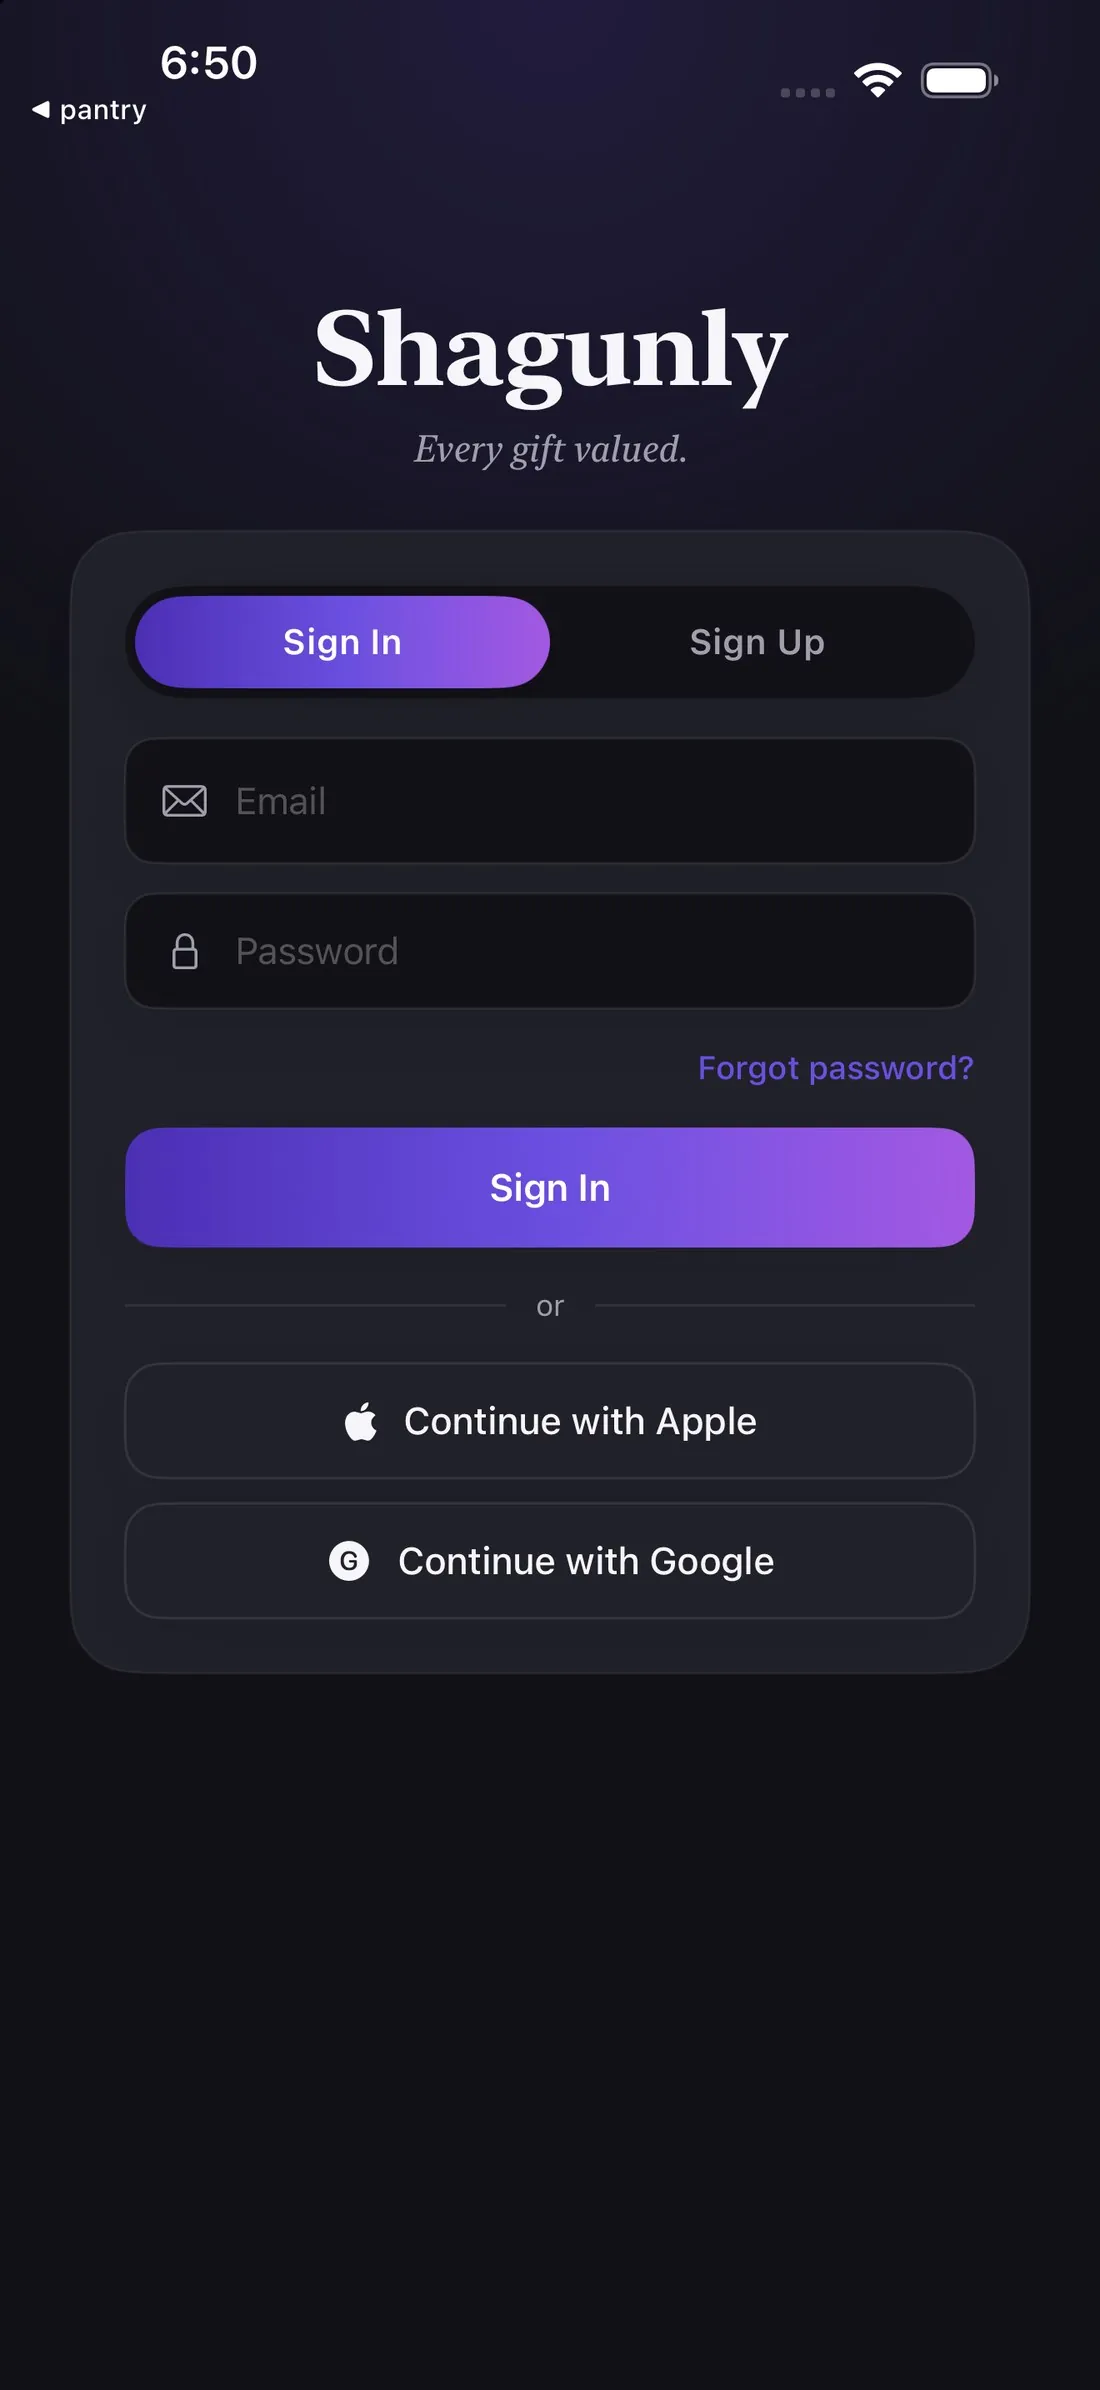
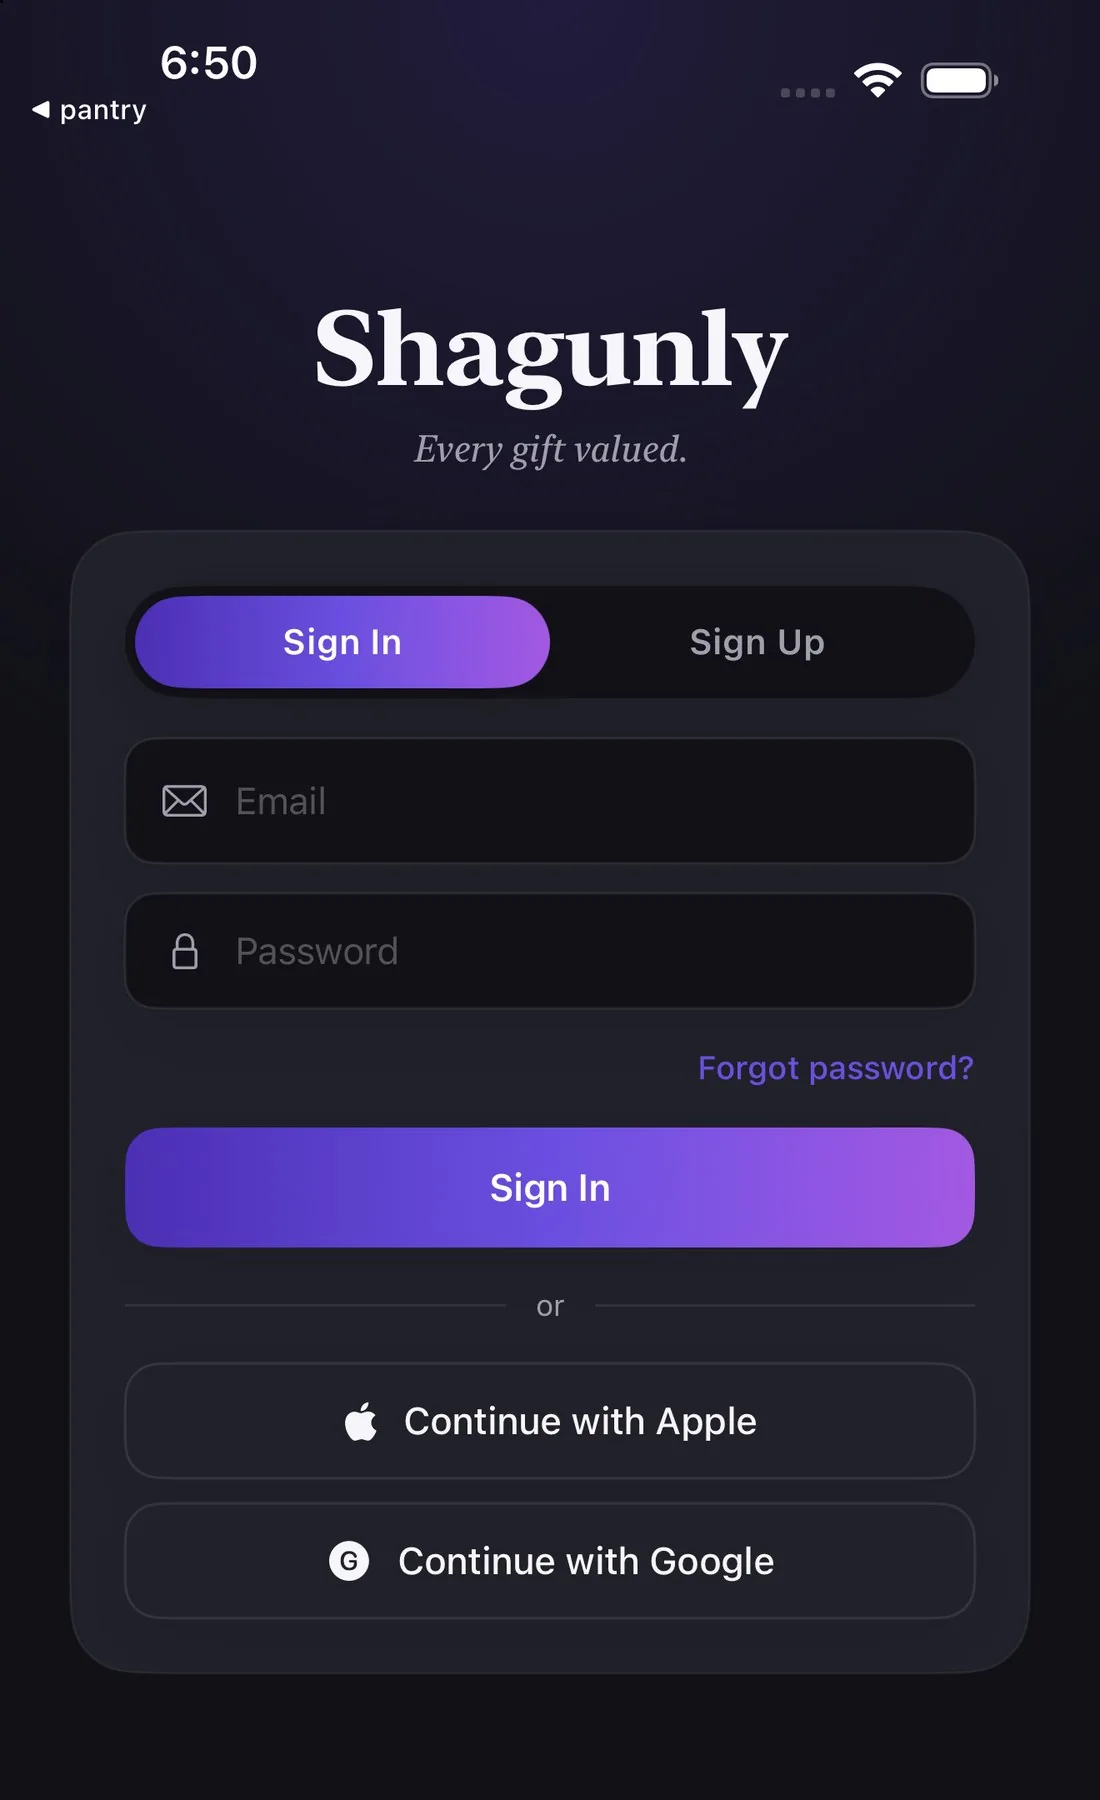
Shagunly: fix the Building It layout
Two problems. The auth screenshot was 30% empty background — content ends
at row 1673 of 2390 — so at 340px wide it rendered 739px tall with a void
in the lower third. And it sat full-width on its own, leaving the right
half of the section blank while the icon strip was stranded below it,
centred against nothing.

Cropped the screenshot to 1100x1800 from the uncropped jpg kept during the
WebP pass, and paired the auth screen with the app icons in a two-column
row, vertically centred, since they illustrate the same point. Stacks
below 760px.

diff --git a/shagunly.html b/shagunly.html
@@ -527,11 +527,12 @@
             </ul>
           </div>
         </div>
-        <figure class="fig" data-reveal style="max-width:340px;">
-          <img src="img/shagunly/screens/phone-auth.webp" width="1100" height="2390" alt="Shagunly sign-in screen — email/password with Apple and Google sign-in" loading="lazy">
+        <div class="build-artifacts" data-reveal>
+        <figure class="fig" style="margin:0;">
+          <img src="img/shagunly/screens/phone-auth.webp" width="1100" height="1800" alt="Shagunly sign-in screen — email/password with Apple and Google sign-in" loading="lazy">
           <figcaption>Shipped auth — email/password, Apple &amp; Google sign-in</figcaption>
         </figure>
-        <div class="icon-strip" data-reveal>
+        <div class="icon-strip">
           <figure>
             <img src="img/shagunly/icon-default.webp" width="256" height="256" alt="Shagunly app icon — default appearance" loading="lazy">
             <figcaption>Default</figcaption>
@@ -544,6 +545,7 @@
             <img src="img/shagunly/icon-tinted.webp" width="256" height="256" alt="Shagunly app icon — tinted appearance (iOS 18 icon tinting)" loading="lazy">
             <figcaption>Tinted</figcaption>
           </figure>
+        </div>
         </div>
       </div>
     </section>

diff --git a/css/shagunly.css b/css/shagunly.css
@@ -177,7 +177,27 @@
 .mockup-caption span.active { display: inline; }
 
 /* ---------- App icon strip ---------- */
+/* Shipped artefacts: the auth screen and the icon set are two halves of the
+   same point, so they sit side by side. Previously the tall screenshot ran
+   full-width on its own, leaving the right half of the section empty, with
+   the icon strip stranded and centre-aligned below it. */
+.build-artifacts {
+  display: grid;
+  grid-template-columns: minmax(0, 300px) 1fr;
+  gap: var(--space-4);
+  align-items: center;
+  margin-top: var(--space-3);
+}
+@media (max-width: 760px) {
+  .build-artifacts { grid-template-columns: 1fr; gap: var(--space-3); justify-items: center; }
+  .build-artifacts > .fig { max-width: 280px; }
+}
+
 .icon-strip { display: flex; gap: 1.6rem; justify-content: center; margin-top: var(--space-3); flex-wrap: wrap; }
+/* inside the pairing the icons align to the screenshot rather than floating
+   in the middle of the remaining column */
+.build-artifacts .icon-strip { justify-content: flex-start; margin-top: 0; }
+@media (max-width: 760px) { .build-artifacts .icon-strip { justify-content: center; } }
 .icon-strip figure { margin: 0; text-align: center; }
 .icon-strip img {
   width: 84px;

diff --git a/NOTES.md b/NOTES.md
@@ -1089,3 +1089,30 @@ iPad silhouette.
 175. **Verified** at 1280x900 and 390x844: single row on desktop, clean
      four-item stack on mobile, no cell overflow, no horizontal scroll,
      App Store link in Status intact and the hero CTA untouched.
+
+## Round 29 — Building It layout fixed (2026-08-03)
+
+176. **Two separate problems made this section look broken** (user report):
+     - The `phone-auth` screenshot was **30% empty background**. Measured it
+       row-by-row: real content ends at y=1673 of 2390, so the bottom 717px
+       was flat dark backdrop. At 340px wide that rendered a 739px-tall
+       figure, most of the lower third being nothing.
+     - The figure sat full-width and alone, so the entire right half of the
+       section was blank next to it, and the `.icon-strip` was stranded
+       below, centre-aligned to nothing.
+177. **Screenshot cropped** 1100x2390 → 1100x1800 from the uncropped
+     `phone-auth.jpg` kept during the WebP pass (so this is reversible).
+     Leaves ~127px of breathing room below the sign-in card. Figure is now
+     300x544 instead of 340x739 — 26% shorter — and the `width`/`height`
+     attributes were updated to match so CLS still holds.
+178. **New `.build-artifacts` pairing**: the auth screen and the three app
+     icons are two halves of the same "what this actually produced" point,
+     so they now sit side by side — `minmax(0,300px) 1fr`, vertically
+     centred, with the icon strip switched to `justify-content: flex-start`
+     inside the pairing so the icons align to the screenshot rather than
+     floating in the middle of the leftover column. Stacks and re-centres
+     below 760px.
+179. **Verified** at 1280x900: figure and icon strip share a row, side by
+     side, vertically centred to within 12px, no horizontal scroll. At
+     390x844: cleanly stacked, figure capped at 280px, icons on one row, no
+     overflow. The screenshot is still lightbox-bound (`is-zoomable`).
